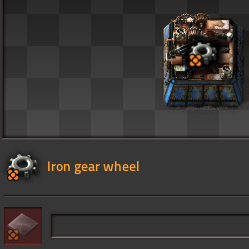
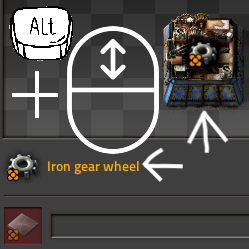
Add stuff to thumbnail

diff --git a/mods_2.0/042_change-recipe-quality-without-re-selecting-recipe/README.md b/mods_2.0/042_change-recipe-quality-without-re-selecting-recipe/README.md
@@ -1,0 +1,2 @@
+- alt icon attribution: https://www.vecteezy.com/vector-art/17179203-alt-icon-symbol-isolated-on-white-background-vector-illustration
+- mouse icon attribution: https://www.shareicon.net/scrolling-595989
